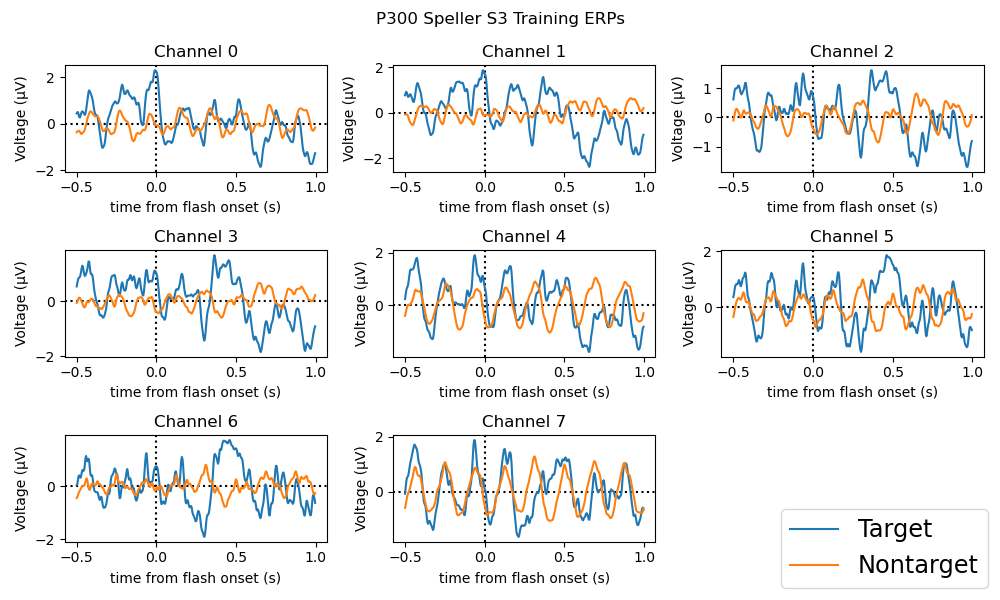
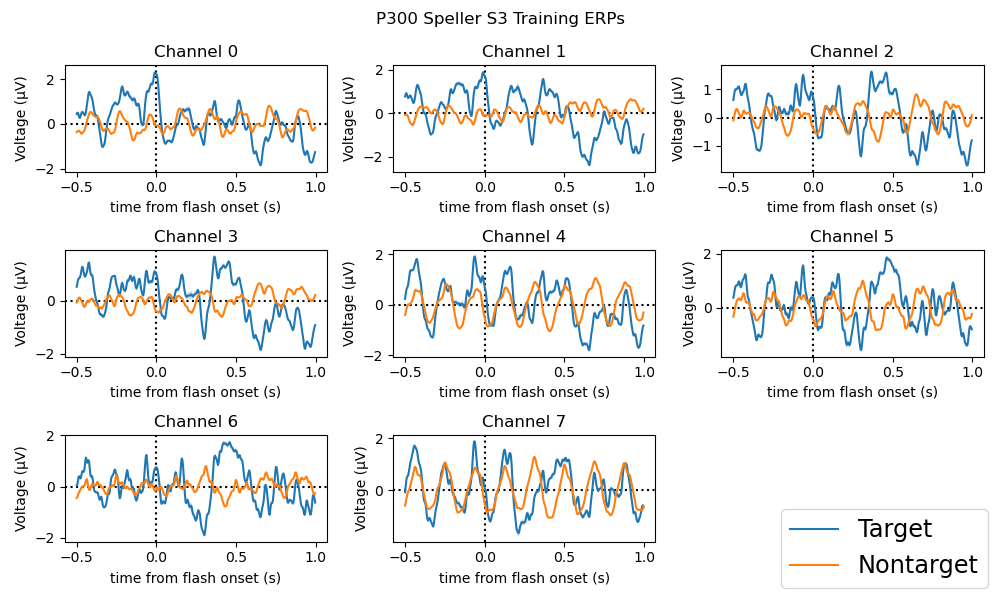
Version 2 (not so different from master branch)

diff --git a/plot_p300_data.py b/plot_p300_data.py
@@ -45,7 +45,7 @@ def load_erp_data(subject=3, data_directory='P300Data/', epoch_start_time=-0.5, 
     # calculate ERPs
     target_erp, nontarget_erp = get_erps(eeg_epochs, is_target_event)
     
-    return erp_times, target_erp, nontarget_erp, eeg_epochs
+    return erp_times, is_target_event, target_erp, nontarget_erp, eeg_epochs
 
 #%% Part B: Calculate & Plot Parametric Confidence Intervals
 
@@ -62,44 +62,55 @@ def load_erp_data(subject=3, data_directory='P300Data/', epoch_start_time=-0.5, 
     
 # returns:
     # none?
-def plot_confidence_intervals(eeg_epochs,erp_times, target_erp, nontarget_erp) :
-    ntrials = eeg_epochs.shape[0]  # Number of trials
-    n_channels = eeg_epochs.shape[1]  # Number of channels
+def plot_confidence_intervals(eeg_epochs,is_target_event,erp_times, target_erp, nontarget_erp,subject =3) :
+      
     
-    mean_erp = np.mean(eeg_epochs, axis=0)  # Compute the mean ERP across trials
-    std_erp = np.std(eeg_epochs, axis=0)  # Compute the standard deviation across trials
-    sdmn = std_erp / np.sqrt(ntrials)  # Standard error of the mean
+    meantarget_erp = np.mean(target_erp, axis=1)  # Compute the mean ERP across trials
+    std_erp = np.std(target_erp, axis=1)  # Compute the standard deviation across trials
+    sdmn1 = std_erp / np.sqrt(len(eeg_epochs[is_target_event]))  # Standard error of the mean
+    mean_nontarget_erp = np.mean(nontarget_erp, axis=1) # Compute the mean ERP across trials
+    std_erp2 = np.std(nontarget_erp, axis=1)  # Compute the standard deviation across trials
+    sdmn2 = std_erp2 / np.sqrt(len(eeg_epochs[~is_target_event]))  # Standard error of the mean
+    
     
     # Plot ERPs and confidence intervals for each channel
     fig, axs = plt.subplots(nrows=3, ncols=3, figsize=(12, 10))
     axs = axs.flatten()  # Flatten the 2D array of subplots
     
-    for i in range(n_channels):
+    for i in range(8):
         ax = axs[i]
-        ax.plot(erp_times, mean_erp[:, i], label='Mean ERP', color='blue')
-        ax.fill_between(erp_times, mean_erp[:, i] - 2 * sdmn[:, i], mean_erp[:, i] + 2 * sdmn[:, i], color='blue', alpha=0.2)
-        ax.plot(erp_times, target_erp[:, i], label='Target ERP', color='green')
-        ax.plot(erp_times, nontarget_erp[:, i], label='Non-target ERP', color='red')
+        #ax.plot(erp_times[i], meantarget_erp[i], label='Mean Target ERP', color='teal')
+        #ax.plot(erp_times[i], mean_nontarget_erp[i], label='Mean Non Target ERP', color='pink')
+        ax.fill_between(erp_times, meantarget_erp - 2 * sdmn1, meantarget_erp + 2 * sdmn1,  alpha=0.2, label = 'Target confidence intervals' , lw = 5)
+        ax.fill_between(erp_times, mean_nontarget_erp - 2 * sdmn2, mean_nontarget_erp + 2 * sdmn2, alpha=0.2, label = 'Nontarget confidence intervals', lw = 200)
+        ax.plot(erp_times, target_erp[:, i], label='Target ERP' )
+        ax.plot(erp_times, nontarget_erp[:, i], label='Non-target ERP')
         ax.axvline(0, color='black', linestyle='--')  # Mark stimulus onset
         ax.axhline(0, color='black', linestyle=':')  # Mark zero voltage
         ax.set_title(f'Channel {i+1}')
         ax.set_xlabel('Time (s)')
         ax.set_ylabel('Voltage (μV)')
-        ax.legend()
-    
-    plt.tight_layout()
+        
+        
+        plt.tight_layout()
+        
+    fig.suptitle(f'P300 Speller S{subject} Training ERPs')
+    fig.tight_layout()
+    ax.legend(loc = 'lower right')    
+    fig.delaxes(axs[8])
     plt.show()
 
+"""
 <<<<<<< Updated upstream
 def plot_erps_and_intervals(erp_times, target_erp, nontarget_erp):
     # would it make sense to call plot_erps here?
     
 
 =======
-        
-erp_times, target_erp, nontarget_erp, eeg_epochs = load_erp_data(subject=3,data_directory='P300Data/',epoch_start_time=-0.5, epoch_end_time=1.0)
-plot_confidence_intervals(eeg_epochs,erp_times, target_erp, nontarget_erp)
->>>>>>> Stashed changes
+        """
+erp_times,is_target_event, target_erp, nontarget_erp, eeg_epochs = load_erp_data(subject=3,data_directory='P300Data/',epoch_start_time=-0.5, epoch_end_time=1.0)
+plot_confidence_intervals(eeg_epochs,is_target_event,erp_times, target_erp, nontarget_erp)
+#>>>>>>> Stashed changes
 #%% Part C: Bootstrap P Values
 
 # null hypothesis: no difference between trial types
